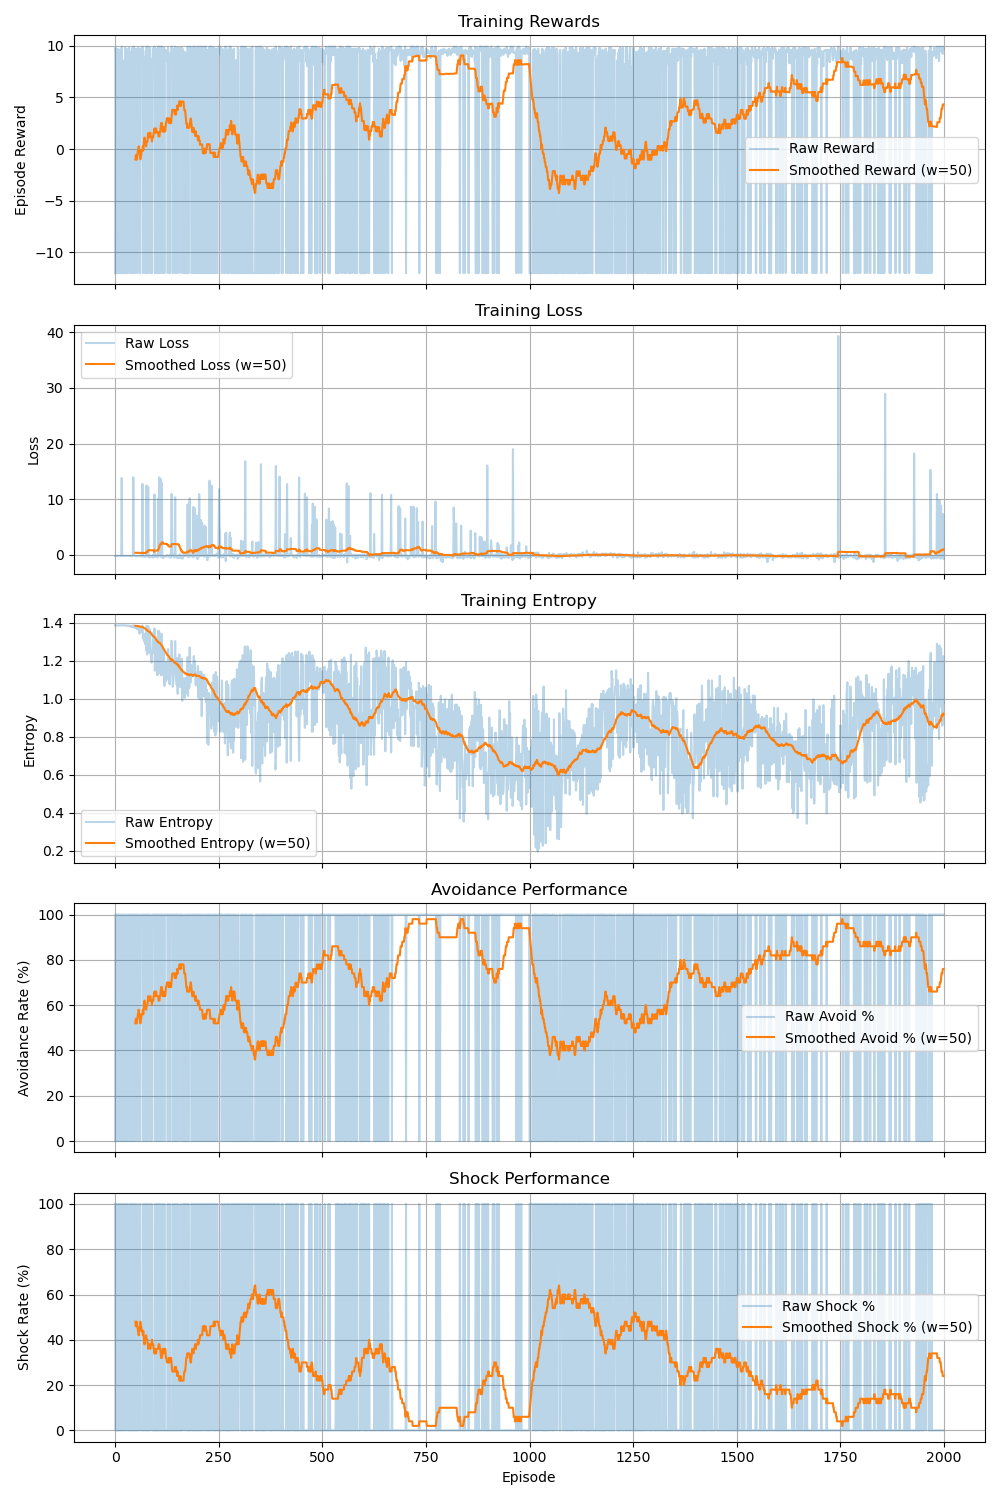
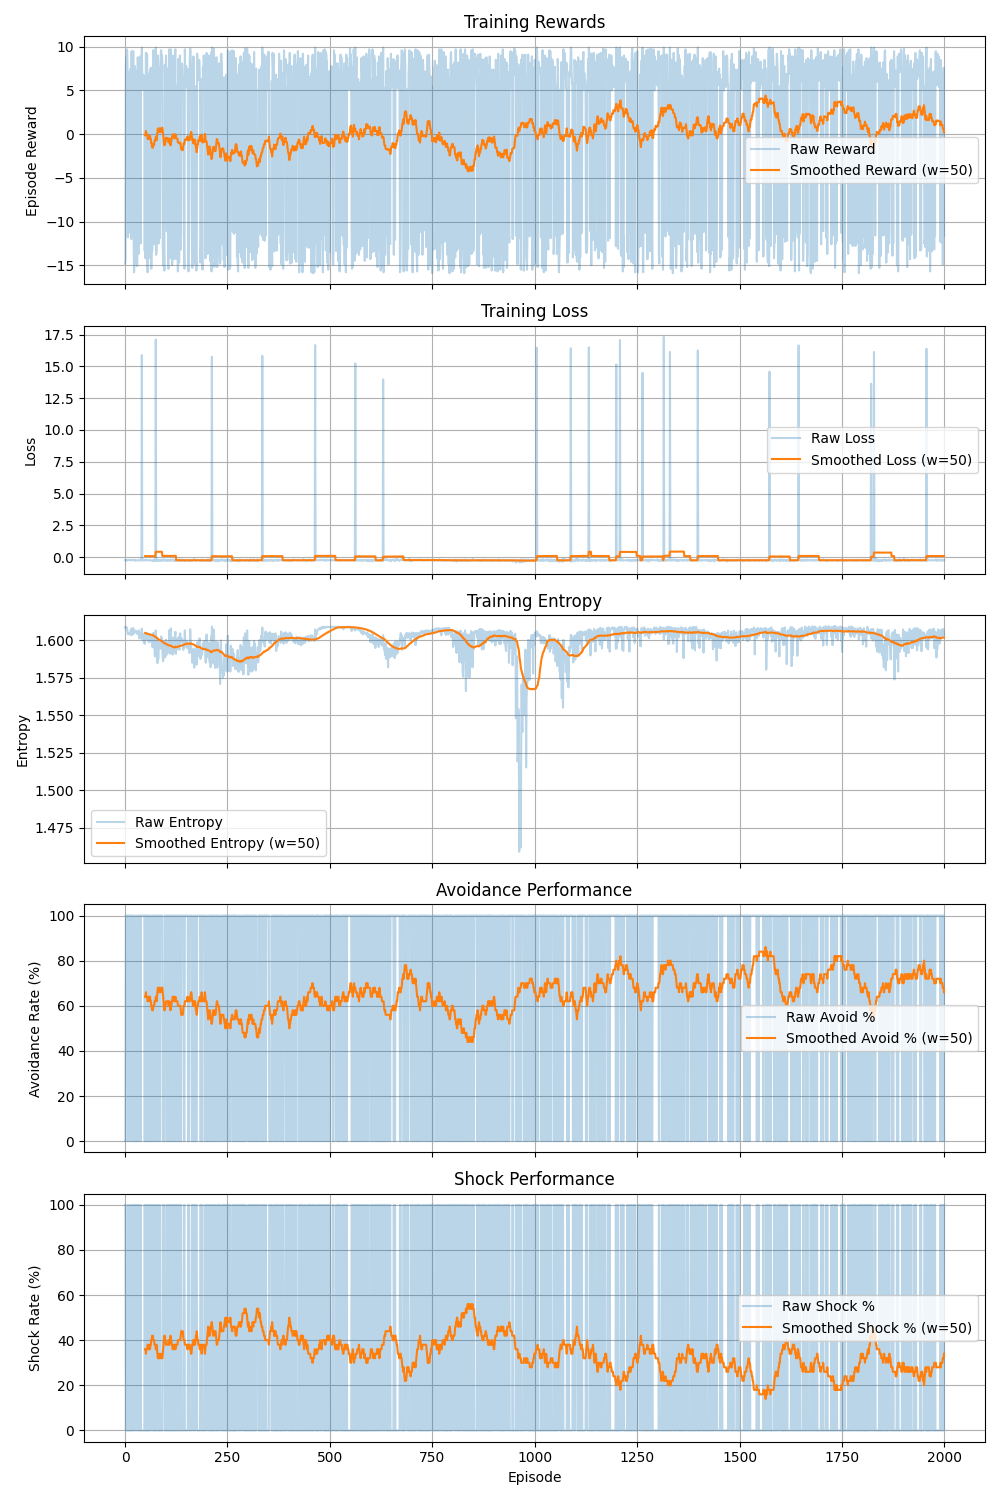
Added env test with the new functionality still work in progress

Changed region(s): [[0.0, 0.0, 0.961, 1.0], [0.217, 0.9507, 0.248, 0.9813]]

diff --git a/envs/active_avoidance_env_test.py b/envs/active_avoidance_env_test.py
@@ -1,0 +1,274 @@
+# envs/active_avoidance_env.py
+
+import numpy as np
+import matplotlib.pyplot as plt
+#import seaborn as sns
+
+class DiscreteSpace:
+    """Defines a discrete action space (e.g., 0, 1, 2, 3)."""
+    def __init__(self, n):
+        self.n = n # Number of discrete actions
+    def sample(self):
+        return np.random.randint(self.n)
+
+class BoxSpace:
+    """Defines a continuous state space."""
+    def __init__(self, low, high, shape, dtype=np.float32):
+        self.low = np.array(low, dtype=dtype)   # Minimum value for each dimension
+        self.high = np.array(high, dtype=dtype) # Maximum value for each dimension
+        self.shape = shape                      # Shape of the observation array (e.g., (4,))
+        self.dtype = dtype                      # Data type
+    def sample(self):
+        # Generate a random sample within the space bounds
+        return np.random.uniform(self.low, self.high, self.shape).astype(self.dtype)
+
+class ActiveAvoidanceEnv2D:
+    """
+    2D Active Avoidance Task Environment.
+
+    State: [norm_x, norm_y, tone1_on, tone2_on, norm_time_since_tone]
+    Action: 0 (UP), 1 (DOWN), 2 (LEFT), 3 (RIGHT), 4 (STAY)
+    Reward: +10 for avoidance, -10 for shock, -0.1 per step
+    """
+    # Action definitions
+    UP, DOWN, LEFT, RIGHT, STAY = 0, 1, 2, 3, 4
+    # Map actions to coordinate changes (dx, dy)
+    ACTION_MAP = {0: (0, 1), 1: (0, -1), 2: (-1, 0), 3: (1, 0), 4: (0, 0)}
+
+    # Task definitions
+    AVOID_TONE_1 = 1 # Requires crossing the vertical midline
+    AVOID_TONE_2 = 2 # Requires crossing the horizontal midline
+
+    def __init__(self, height=10, width=20, tone_duration_steps=50,
+                 shock_delay_steps=50, max_steps_per_episode=100,
+                 initial_task=AVOID_TONE_1):
+        """
+        Initializes the environment parameters.
+        Args:
+            height: Height of the grid.
+            width: Width of the grid.
+            tone_duration_steps: How many steps the tone cue lasts.
+            shock_delay_steps: Steps until shock occurs if not avoided.
+            max_steps_per_episode: Maximum steps per trial.
+            initial_task: Task the environment starts with (AVOID_TONE_1 or AVOID_TONE_2).
+        """
+        self.height = height
+        self.width = width
+        # Calculate center coordinates for midline checks
+        self.center_x = (width - 1) / 2.0
+        self.center_y = (height - 1) / 2.0
+
+        self.tone_duration_steps = tone_duration_steps
+        # Ensure shock delay is at least as long as tone duration
+        self.shock_delay_steps = max(shock_delay_steps, tone_duration_steps)
+        self.max_steps_per_episode = max_steps_per_episode
+        # Internal variable tracking the current active rule (not observed by the agent)
+        self.current_task_id = initial_task
+
+        # Define action space (5 discrete actions)
+        self.action_space = DiscreteSpace(5)
+        # Define observation space (5 continuous values, normalized)
+        self.observation_space = BoxSpace(
+            low=np.array([0.0, 0.0, 0.0, 0.0, 0.0]),
+            high=np.array([1.0, 1.0, 1.0, 1.0, 1.0]),
+            shape=(5,), # State is [norm_x, norm_y, tone1_on, tone2_on, norm_time]
+            dtype=np.float32
+        )
+
+        # Internal variables tracking the current state of the environment
+        self.agent_pos = [0, 0] # Agent's [x, y] coordinates
+        self.tone1_on = 0.0     # Flag indicating if tone 1 is active
+        self.tone2_on = 0.0     # Flag indicating if tone 2 is active
+        self.time_since_tone_onset = 0 # Step counter since tone started
+        self.steps_in_episode = 0      # Step counter for the current episode
+        self.current_zone = (0, 0) # Agent's current zone relative to midlines (x_zone, y_zone)
+
+        # Variables for potential compatibility with visualization.py
+        self.start = (0,0)
+        self.goal = (-1,-1) # No fixed goal state
+        self.obstacles = [] # No obstacles in this version
+
+    def _get_state(self):
+        """Calculates and returns the normalized state vector for the agent."""
+        norm_x = self.agent_pos[0] / (self.width - 1)
+        norm_y = self.agent_pos[1] / (self.height - 1)
+        # Normalize time elapsed since tone started
+        norm_time = min(self.time_since_tone_onset / self.tone_duration_steps, 1.0)
+        # Return the state vector with both tones
+        return np.array([norm_x, norm_y, self.tone1_on, self.tone2_on, norm_time], dtype=np.float32)
+
+    def _get_zone(self, pos):
+        """Determines the zone (0=left/bottom, 1=right/top) based on position."""
+        x_zone = 0 if pos[0] <= self.center_x else 1
+        y_zone = 0 if pos[1] <= self.center_y else 1
+        return (x_zone, y_zone)
+
+    def reset(self):
+        """Resets the environment for a new episode (trial)."""
+        self.steps_in_episode = 0
+        self.tone1_on = 0.0
+        self.tone2_on = 0.0
+        self.time_since_tone_onset = 0
+
+        # Determine starting position randomly, ensuring it's on the correct
+        # side of the relevant midline for the current task.
+        start_x, start_y = 0, 0
+        if self.current_task_id == self.AVOID_TONE_1: # Task 1: Need to cross vertical midline
+            if np.random.rand() < 0.5: # Start left half
+                start_x = np.random.randint(0, int(np.floor(self.center_x)) + 1)
+            else: # Start right half
+                start_x = np.random.randint(int(np.ceil(self.center_x)), self.width)
+            start_y = np.random.randint(0, self.height)
+        elif self.current_task_id == self.AVOID_TONE_2: # Task 2: Need to cross horizontal midline
+            if np.random.rand() < 0.5: # Start bottom half
+                start_y = np.random.randint(0, int(np.floor(self.center_y)) + 1)
+            else: # Start top half
+                start_y = np.random.randint(int(np.ceil(self.center_y)), self.height)
+            start_x = np.random.randint(0, self.width)
+
+        self.agent_pos = [start_x, start_y]
+        self.start = tuple(self.agent_pos) # Store start pos
+        self.current_zone = self._get_zone(self.agent_pos) # Update current zone
+
+        # Schedule tone to start in the first half of the trial
+        self.tone_start_step = np.random.randint(0, self.max_steps_per_episode // 2)
+
+        # Return the initial state observation
+        return self._get_state()
+
+    def switch_task(self, new_task_id=None):
+        """Switches the current task rule (X-shuttle vs Y-shuttle)."""
+        if new_task_id: # Allow setting a specific task
+            if new_task_id not in [self.AVOID_TONE_1, self.AVOID_TONE_2]:
+                raise ValueError("Invalid task ID")
+            self.current_task_id = new_task_id
+        else: # Default: toggle between Task 1 and Task 2
+            self.current_task_id = self.AVOID_TONE_2 if self.current_task_id == self.AVOID_TONE_1 else self.AVOID_TONE_1
+        print(f"Switched to Task {self.current_task_id} ({'X' if self.current_task_id == 1 else 'Y'}-Shuttle)")
+
+    def step(self, action):
+        """Executes one time step in the environment."""
+        if not (0 <= action < 5):
+            raise ValueError(f"Invalid action: {action}")
+
+        reward = -0.1  # step cost
+        done = False   # Flag indicating if the episode ended this step
+        info = {
+            'shocked': False, 
+            'avoided': False, 
+            'task': self.current_task_id,
+            'tone1_active': self.tone1_on > 0.5,
+            'tone2_active': self.tone2_on > 0.5
+        }
+
+        # Calculate agent's next potential position based on action
+        dx, dy = self.ACTION_MAP[action]
+        next_pos = [self.agent_pos[0] + dx, self.agent_pos[1] + dy]
+
+        # Ensure the agent stays within the grid boundaries
+        next_pos[0] = np.clip(next_pos[0], 0, self.width - 1)
+        next_pos[1] = np.clip(next_pos[1], 0, self.height - 1)
+
+        # Update the agent's position
+        self.agent_pos = next_pos
+
+        # --- Tone logic: activate tone in the first half of the trial ---
+        if self.steps_in_episode == self.tone_start_step:
+            if np.random.rand() < 0.5:
+                self.tone1_on = 1.0
+                self.tone2_on = 0.0
+            else:
+                self.tone1_on = 0.0
+                self.tone2_on = 1.0
+
+        # --- Main trial logic: applies only if either tone is active ---
+        if self.tone1_on > 0.5 or self.tone2_on > 0.5:
+            self.time_since_tone_onset += 1 # Increment tone timer
+            new_zone = self._get_zone(self.agent_pos) # Check zone after moving
+
+            # Check if the agent performed the correct avoidance action for the CURRENT task
+            avoided = False
+            if self.current_task_id == self.AVOID_TONE_1: # Task 1 rule
+                if (self.tone1_on > 0.5 and self.current_zone[0] != new_zone[0]) or (self.tone2_on > 0.5):
+                    avoided = True
+            elif self.current_task_id == self.AVOID_TONE_2: # Task 2 rule
+                if (self.tone2_on > 0.5 and self.current_zone[1] != new_zone[1]) or (self.tone1_on > 0.5):
+                    avoided = True
+
+            if avoided:
+                reward += 10.0 # Positive reward
+                done = True    # End the episode
+                info['avoided'] = True
+                # Turn off both tones
+                self.tone1_on = 0.0
+                self.tone2_on = 0.0
+            else:
+                # If not avoided, check if the shock timer has expired
+                if self.time_since_tone_onset >= self.shock_delay_steps:
+                    # Shock occurs
+                    reward -= 10.0 # Negative reward
+                    done = True    # End the episode
+                    info['shocked'] = True
+                    # Turn off both tones
+                    self.tone1_on = 0.0
+                    self.tone2_on = 0.0
+
+            # Update the agent's current zone if the episode is still ongoing
+            if not done:
+                self.current_zone = new_zone
+
+        # --- Check if max steps reached ---
+        self.steps_in_episode += 1
+        if self.steps_in_episode >= self.max_steps_per_episode:
+            done = True # End episode
+            # Apply timeout penalty only if not already ended by avoidance/shock
+            if not info['avoided'] and not info['shocked']:
+                reward -= 5.0
+
+        # Get the state observation for the next step
+        next_state = self._get_state()
+
+        # Return step results
+        return next_state, reward, done, info
+
+    def render(self, ax=None):
+        if ax is None:
+            fig, ax = plt.subplots(figsize=(5, 5))
+            show = True
+        else:
+            show = False
+            ax.clear()
+
+        # Mark agent position
+        ax.scatter(self.agent_pos[0], self.agent_pos[1], marker='o', s=100, color='blue', label='Agent')
+
+        # Draw center lines
+        ax.axvline(self.center_x, color='gray', linestyle='--', lw=1)
+        ax.axhline(self.center_y, color='gray', linestyle='--', lw=1)
+
+        # Highlight the currently active boundary based on the task rule
+        if self.current_task_id == self.AVOID_TONE_1:
+             ax.axvline(self.center_x, color='red', linestyle='-', lw=2, label='X-Shuttle Boundary')
+        else:
+             ax.axhline(self.center_y, color='red', linestyle='-', lw=2, label='Y-Shuttle Boundary')
+
+        # Setup grid appearance
+        ax.set_xticks(np.arange(-0.5, self.width, 1), minor=True)
+        ax.set_yticks(np.arange(-0.5, self.height, 1), minor=True)
+        ax.grid(which='minor', color='gray', linestyle='-', linewidth=0.5)
+        ax.tick_params(which='minor', size=0)
+        ax.set_xlim(-0.5, self.width - 0.5)
+        ax.set_ylim(-0.5, self.height - 0.5)
+        ax.set_aspect('equal', adjustable='box')
+
+        # Display current step, tone status, and task info
+        tone1_str = "ON" if self.tone1_on > 0.5 else "OFF"
+        tone2_str = "ON" if self.tone2_on > 0.5 else "OFF"
+        time_str = f"{self.time_since_tone_onset}/{self.tone_duration_steps}"
+        task_str = f"Task: {'X' if self.current_task_id == 1 else 'Y'}-Shuttle"
+        title = f"Step: {self.steps_in_episode} | Tone1: {tone1_str} | Tone2: {tone2_str} ({time_str}) | {task_str}"
+        ax.set_title(title)
+        ax.legend(loc='upper right')
+
+        if show:
+            plt.show()

diff --git a/utils/avoidance_visualization.py b/utils/avoidance_visualization.py
@@ -4,6 +4,7 @@ import matplotlib.pyplot as plt
 import numpy as np
 import torch
 import seaborn as sns
+from matplotlib.animation import FuncAnimation
 
 def plot_avoidance_training_curves(rewards, losses, metrics, metric_name,
                                    avoidance_rates, shock_rates,
@@ -145,12 +146,12 @@ def plot_avoidance_trajectories_2d(env, agent, num_trajectories=5, max_steps=100
     # Draw center lines and grid
     ax.axvline(env.center_x, color='gray', linestyle='--', lw=1)
     ax.axhline(env.center_y, color='gray', linestyle='--', lw=1)
-    ax.set_xticks(np.arange(-0.5, env.grid_size, 1), minor=True)
-    ax.set_yticks(np.arange(-0.5, env.grid_size, 1), minor=True)
+    ax.set_xticks(np.arange(-0.5, env.width, 1), minor=True)
+    ax.set_yticks(np.arange(-0.5, env.height, 1), minor=True)
     ax.grid(which='minor', color='gray', linestyle='-', linewidth=0.5)
     ax.tick_params(which='minor', size=0)
-    ax.set_xlim(-0.5, env.grid_size - 0.5)
-    ax.set_ylim(-0.5, env.grid_size - 0.5)
+    ax.set_xlim(-0.5, env.width - 0.5)
+    ax.set_ylim(-0.5, env.height - 0.5)
     ax.set_aspect('equal', adjustable='box')
     ax.set_xlabel("X position")
     ax.set_ylabel("Y position")
@@ -177,7 +178,7 @@ def plot_avoidance_heatmap_2d(env, agent, num_episodes=100, max_steps=100, save_
         max_steps: Maximum steps per episode.
         save_path: Path to save the plot.
     """
-    visitation_counts = np.zeros((env.grid_size, env.grid_size))
+    visitation_counts = np.zeros((env.height, env.width))
     device = agent.device
     task_id = env.current_task_id 
 
@@ -195,7 +196,7 @@ def plot_avoidance_heatmap_2d(env, agent, num_episodes=100, max_steps=100, save_
         while not done and steps < max_steps:
             x, y = env.agent_pos
             # Ensure indices are within bounds before incrementing
-            if 0 <= x < env.grid_size and 0 <= y < env.grid_size:
+            if 0 <= x < env.width and 0 <= y < env.height:
                 visitation_counts[int(round(y)), int(round(x))] += 1 # Use rounded int indices
 
             state_tensor = torch.FloatTensor(state).to(device)
@@ -223,10 +224,10 @@ def plot_avoidance_heatmap_2d(env, agent, num_episodes=100, max_steps=100, save_
     task_str = f"Task {'X' if task_id == 1 else 'Y'}-Shuttle"
     ax.set_title(f"State Visitation Heatmap ({agent.__class__.__name__} - {agent.policy_type}) - {task_str}")
     # Ensure correct tick labels for grid coordinates
-    ax.set_xticks(np.arange(env.grid_size) + 0.5)
-    ax.set_yticks(np.arange(env.grid_size) + 0.5)
-    ax.set_xticklabels(np.arange(env.grid_size))
-    ax.set_yticklabels(np.arange(env.grid_size))
+    ax.set_xticks(np.arange(env.width) + 0.5)
+    ax.set_yticks(np.arange(env.height) + 0.5)
+    ax.set_xticklabels(np.arange(env.width))
+    ax.set_yticklabels(np.arange(env.height))
     plt.setp(ax.get_yticklabels(), rotation=0)
 
 

diff --git a/run_avoidance_task.py b/run_avoidance_task.py
@@ -5,7 +5,7 @@ import matplotlib.pyplot as plt
 import os
 
 # Import the environment
-from envs.active_avoidance_env import ActiveAvoidanceEnv2D
+from envs.active_avoidance_env_test import ActiveAvoidanceEnv2D
 
 # Import agents
 from agents.ppo_agent import PPOAgent
@@ -16,7 +16,8 @@ from agents.trpo_agent import TRPOAgent
 from utils.avoidance_visualization import (
     plot_avoidance_training_curves,
     plot_avoidance_trajectories_2d,
-    plot_avoidance_heatmap_2d
+    plot_avoidance_heatmap_2d,
+    animate_avoidance_trajectories_2d
 )
 
 SEED = 42
@@ -29,11 +30,12 @@ os.makedirs('plots', exist_ok=True)
 # --- Configuration ---
 config = {
     # Environment params
-    'grid_size': 8,
-    'tone_duration_steps': 20,
-    'shock_delay_steps': 20,
+    'height': 10,
+    'width': 20,
+    'tone_duration_steps': 10,
+    'shock_delay_steps': 10,
     'max_steps_per_episode': 100,
-    'initial_task': ActiveAvoidanceEnv2D.TASK_X_SHUTTLE,
+    'initial_task': ActiveAvoidanceEnv2D.AVOID_TONE_1,
 
     # Agent params
     'agent_class': MaxEntAgent, 
@@ -57,7 +59,8 @@ device = torch.device("cuda" if torch.cuda.is_available() else "cpu")
 print(f"Using device: {device}")
 
 env = ActiveAvoidanceEnv2D(
-    grid_size=config['grid_size'],
+    height=config['height'],
+    width=config['width'],
     tone_duration_steps=config['tone_duration_steps'],
     shock_delay_steps=config['shock_delay_steps'],
     max_steps_per_episode=config['max_steps_per_episode'],
@@ -175,7 +178,7 @@ for episode in range(config['num_episodes']):
         avg_shock = np.mean(shock_rate_history[-50:]) * 100
 
         metric_name = 'Entropy' if isinstance(agent, (MaxEntAgent, FisherMaxEntAgent)) else 'KL'
-        print(f"Ep {episode+1}/{config['num_episodes']} | Task: {'X' if env.current_task_id == 1 else 'Y'} | "
+        print(f"Ep {episode+1}/{config['num_episodes']} | Task: {'Tone1' if env.current_task_id == 1 else 'Tone2'} | "
               f"Rwd: {avg_reward:.2f} | Loss: {avg_loss:.4f} | {metric_name}: {avg_metric:.4f} | "
               f"Avoid%: {avg_avoid:.1f} | Shock%: {avg_shock:.1f}")
 
